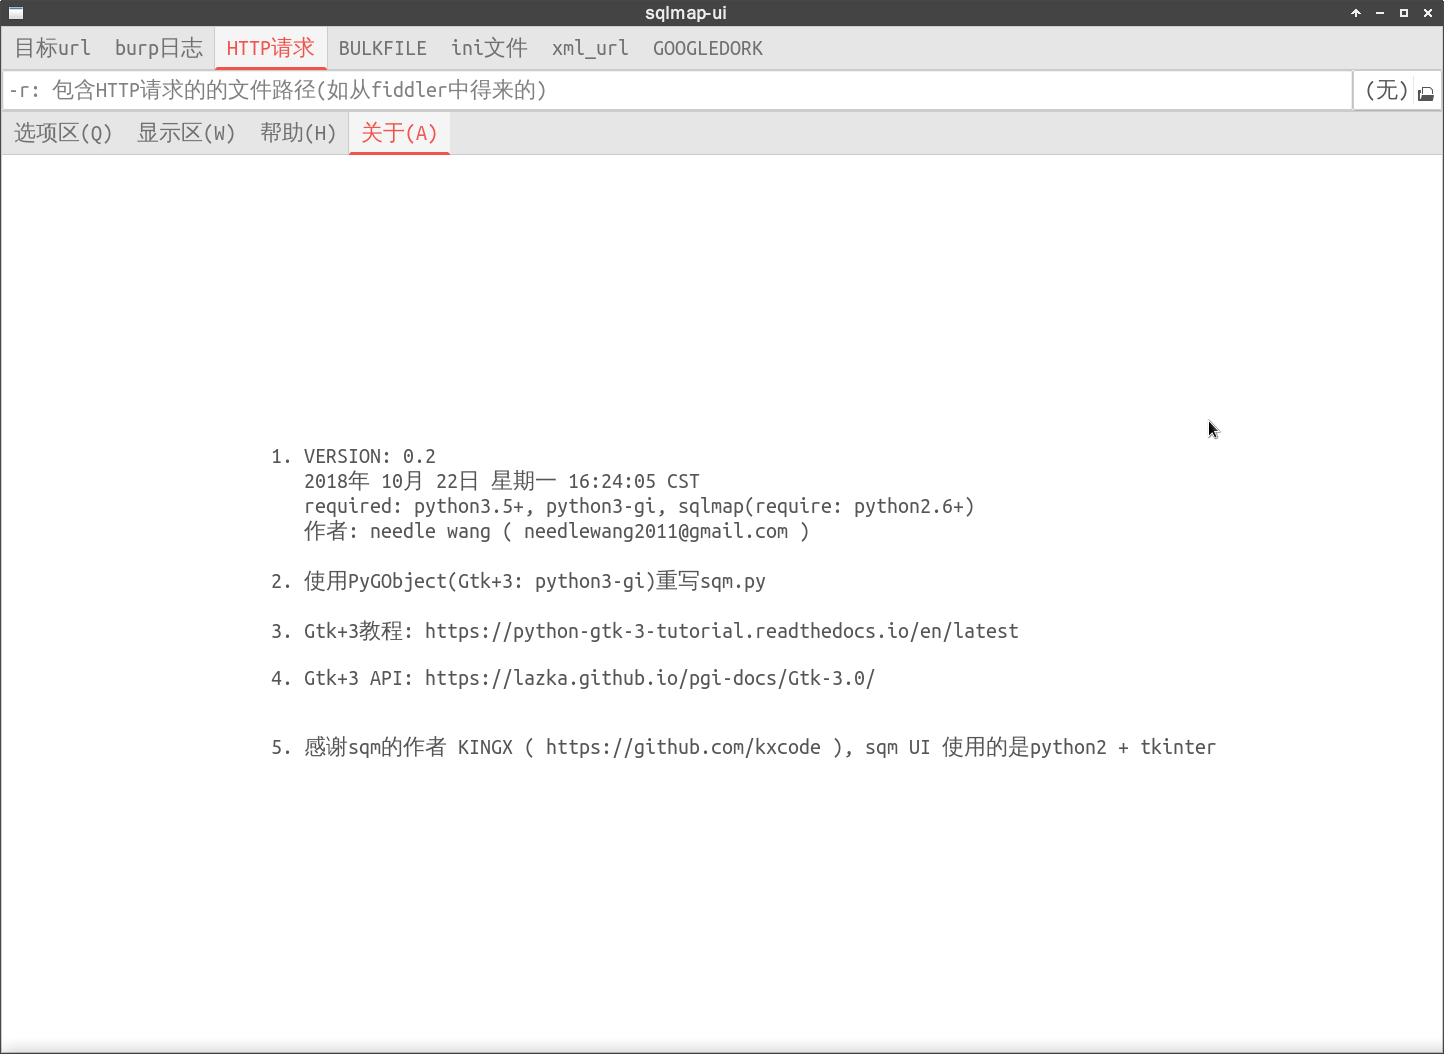
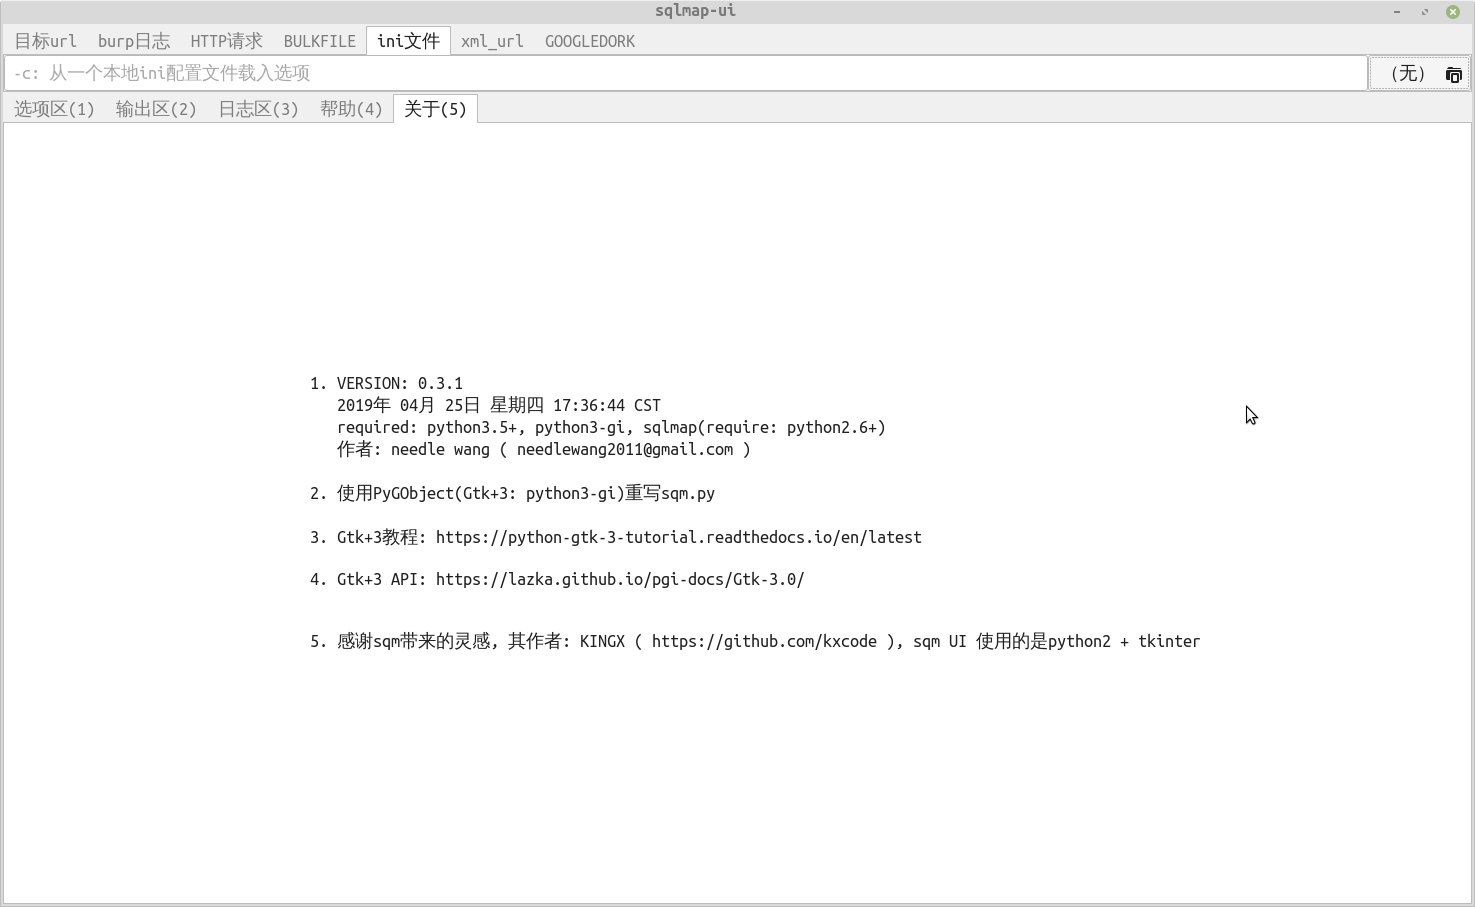
添加输出区, fix bugs, 优化.

Changed region(s): [[0.0, 0.0, 1.0, 1.0], [0.187, 0.4013, 0.7168, 0.6483], [0.2181, 0.6792, 0.8414, 0.7409]]

diff --git a/sqlmap_ui.py b/sqlmap_ui.py
@@ -11,7 +11,7 @@ from pathlib import Path
 from subprocess import Popen, PIPE
 from threading import Thread
 
-from gtk3_header import GLib, Gdk as d, Gtk as g
+from gtk3_header import GLib, Gdk as d, Gtk as g, Vte
 from model import Model
 from handlers import Singal_Handlers as Handlers
 from session import Session
@@ -45,14 +45,16 @@ class UI_Window(g.Window):
 
     self.main_notebook = g.Notebook()
     self._build_page1()
+    self._build_page0()
     self._build_page2()
     self._build_page3()
     self._build_page4()
 
-    self.main_notebook.append_page(self.page1, g.Label.new_with_mnemonic('选项区(_Q)'))
-    self.main_notebook.append_page(self.page2, g.Label.new_with_mnemonic('显示区(_W)'))
-    self.main_notebook.append_page(self.page3, g.Label.new_with_mnemonic('帮助(_H)'))
-    self.main_notebook.append_page(self.page4, g.Label.new_with_mnemonic('关于(_A)'))
+    self.main_notebook.append_page(self.page1, g.Label.new_with_mnemonic('选项区(_1)'))
+    self.main_notebook.append_page(self.page0, g.Label.new_with_mnemonic('输出区(_2)'))
+    self.main_notebook.append_page(self.page2, g.Label.new_with_mnemonic('日志区(_3)'))
+    self.main_notebook.append_page(self.page3, g.Label.new_with_mnemonic('帮助(_4)'))
+    self.main_notebook.append_page(self.page4, g.Label.new_with_mnemonic('关于(_5)'))
 
     _main_box.pack_start(self.main_notebook, True, True, 0)
     self.add(_main_box)
@@ -214,27 +216,27 @@ class UI_Window(g.Window):
     self._build_page1_file()
     self._build_page1_other()
 
-    _notebook.append_page(self.page1_setting, g.Label.new_with_mnemonic('测试(_1)'))
-    _notebook.append_page(self.page1_request, g.Label.new_with_mnemonic('请求(_2)'))
-    _notebook.append_page(self.page1_enumeration, g.Label.new_with_mnemonic('枚举(_3)'))
-    _notebook.append_page(self.page1_file, g.Label.new_with_mnemonic('文件(_4)'))
-    _notebook.append_page(self.page1_other, g.Label.new_with_mnemonic('其他(_5)'))
+    _notebook.append_page(self.page1_setting, g.Label.new_with_mnemonic('测试(_Q)'))
+    _notebook.append_page(self.page1_request, g.Label.new_with_mnemonic('请求(_W)'))
+    _notebook.append_page(self.page1_enumeration, g.Label.new_with_mnemonic('枚举(_E)'))
+    _notebook.append_page(self.page1_file, g.Label.new_with_mnemonic('文件(_R)'))
+    _notebook.append_page(self.page1_other, g.Label.new_with_mnemonic('其他(_T)'))
 
     self.page1.pack_start(_notebook, True, True, 0)
 
     # 构造与执行
     _exec_area = g.Box()
 
-    _build_button = g.Button.new_with_mnemonic('构造命令语句(_E)')
+    _build_button = g.Button.new_with_mnemonic('构造命令语句(_A)')
     _build_button.connect('clicked', self._handlers.build_all)
 
     # 用于改善ui的使用体验
-    _unselect_all_btn = g.Button.new_with_mnemonic('反选所有复选框(_C)')
+    _unselect_all_btn = g.Button.new_with_mnemonic('反选所有复选框(_S)')
     _unselect_all_btn.connect('clicked', self.unselect_all_ckbtn)
-    _clear_all_entry = g.Button.new_with_mnemonic('清空所有输入框(_I)')
+    _clear_all_entry = g.Button.new_with_mnemonic('清空所有输入框(_D)')
     _clear_all_entry.connect('clicked', self.clear_all_entry)
 
-    _run_button = g.Button.new_with_mnemonic('开始(_R)')
+    _run_button = g.Button.new_with_mnemonic('开始(_F)')
     _run_button.connect('clicked', self._handlers.run_cmdline)
 
     _exec_area.pack_start(_build_button, False, True, 0)
@@ -1007,8 +1009,9 @@ class UI_Window(g.Window):
 
     _row1 = g.Box()
 
-    _row1.pack_start(m._brute_force_area_common_tables_ckbtn, True, True, 10)
-    _row1.pack_start(m._brute_force_area_common_columns_ckbtn, True, True, 10)
+    _row1.pack_start(g.Label.new('检查是否存在:'), False, True, 10)
+    _row1.pack_start(m._brute_force_area_common_tables_ckbtn, False, True, 0)
+    _row1.pack_start(m._brute_force_area_common_columns_ckbtn, False, True, 10)
 
     _brute_force_area_opts.pack_start(_row1, False, True, 5)
     self._brute_force_area.add(_brute_force_area_opts)
@@ -1326,6 +1329,51 @@ class UI_Window(g.Window):
     _file_read_area_opts.pack_start(_row1, False, True, 5)
     self._file_read_area.add(_file_read_area_opts)
 
+  def _build_page0(self):
+    '''
+    用subprocess不可实现与sqlap的交互!
+    不管是多线程, 同步还是异步, 都不行, 只能使用pty
+    '''
+    self.page0 = g.Box(orientation=VERTICAL, spacing=6)
+    self.page0.set_border_width(10)
+
+    _row1 = g.Box(spacing = 6)
+    m._page0_cmdline_str_label.set_alignment(0, 0.5)    # 怎么没有垂直居中?
+    m._page0_respwan_btn.connect('clicked', self._handlers.respawn_terminal)
+
+    _row1.pack_start(m._page0_cmdline_str_label, True, True, 0)
+    _row1.pack_start(m._page0_respwan_btn, False, True, 0)
+
+    _row2 = g.Frame()
+    # 等价于_pty = m._page0_terminal.pty_new_sync(Vte.PtyFlags.DEFAULT)
+    _pty = Vte.Pty.new_sync(Vte.PtyFlags.DEFAULT)
+    m._page0_terminal.set_pty(_pty)
+
+    # https://stackoverflow.com/questions/55105447/virtual-python-shell-with-vte-pty-spawn-async
+    # https://gtk-d.dpldocs.info/vte.Pty.Pty.spawnAsync.html
+    # API手册上的该方法签名有问题, 与实际的对不上
+    # 最后一个参数为回调函数, 是必填项
+    _pty.spawn_async(str(Path.home()),
+                     [self._handlers.shell],
+                     None,
+                     GLib.SpawnFlags.DO_NOT_REAP_CHILD,
+                     None,
+                     None,
+                     -1,
+                     None,
+                     lambda pty, task: None)
+
+    _scrolled = g.ScrolledWindow()
+    _scrolled.set_policy(g.PolicyType.NEVER, g.PolicyType.ALWAYS)
+    _scrolled.add(m._page0_terminal)
+    _row2.add(_scrolled)
+
+    self.page0.pack_start(_row1, False, True, 5)
+    self.page0.pack_end(_row2, True, True, 0)
+
+  def ready(self, pty, task):
+    print('pty ', pty)
+
   def _build_page2(self):
     self.page2 = g.Box(orientation=VERTICAL, spacing=6)
     self.page2.set_border_width(10)
@@ -1373,7 +1421,7 @@ class UI_Window(g.Window):
 
     self._manual_view_textbuffer = _manual_view.get_buffer()
 
-    # 启动线程, 填充帮助标签, 加快启动速度
+    # 使用线程 填充 帮助标签, 加快启动速度
     t = Thread(target = self._set_manual_view)
     t.daemon = True
     t.start()
@@ -1412,15 +1460,14 @@ class UI_Window(g.Window):
     self.page4.set_border_width(10)
 
     _about_str = '''
-    update at 2019-04-20 22:03:02
-    1. VERSION: 0.3
-       2018年 11月 10日 星期六 16:17:44 CST
+    1. VERSION: 0.3.1
+       2019年 04月 25日 星期四 17:36:44 CST
        required: python3.5+, python3-gi, sqlmap(require: python2.6+)
        作者: needle wang ( needlewang2011@gmail.com )\n
     2. 使用PyGObject(Gtk+3: python3-gi)重写sqm.py\n
     3. Gtk+3教程: https://python-gtk-3-tutorial.readthedocs.io/en/latest\n
     4. Gtk+3 API: https://lazka.github.io/pgi-docs/Gtk-3.0/\n\n
-    5. 感谢sqm的作者 KINGX ( https://github.com/kxcode ), sqm UI 使用的是python2 + tkinter
+    5. 感谢sqm带来的灵感, 其作者: KINGX ( https://github.com/kxcode ), sqm UI 使用的是python2 + tkinter
     '''
     self.page4.pack_start(g.Label.new(_about_str), True, False, 0)
 

diff --git a/handlers.py b/handlers.py
@@ -4,13 +4,13 @@
 # 2018年 08月 29日 星期三 15:34:10 CST
 
 import time
-
-from os import name as OS_NAME
+from os import environ, name as OS_NAME
 # python3.5+
 from pathlib import Path
 from subprocess import Popen
 from urllib.parse import urlparse
 
+from gtk3_header import GLib, Vte
 # from basis_and_too.logging_needle import get_console_logger
 # logger = get_console_logger()
 
@@ -27,6 +27,7 @@ class Singal_Handlers(object):
     '''
     self.w = w
     self.m = m
+    self.shell = environ["SHELL"]
 
   def build_all(self, button):
     _target = self._get_target()
@@ -39,13 +40,48 @@ class Singal_Handlers(object):
 
     _final_line = _target + ''.join(_opts_list)
 
-    if _final_line:
-      self.m._cmd_entry.set_text(_final_line)
+    if _final_line is not None:
+      self.m._cmd_entry.set_text(_final_line.strip())
 
   def run_cmdline(self, button):
+    '''
+    only for posix, won't code it for win now.
+    '''
+    _sqlmap_opts = self.m._cmd_entry.get_text().strip()
+    if IS_POSIX:
+      self.w.main_notebook.next_page()
+      _cmdline_str = ''.join(('sqlmap ', _sqlmap_opts, '\n'))
+      # print(_cmdline_str)
+      if _cmdline_str:
+        self.m._page0_cmdline_str_label.set_text("running: " + _cmdline_str)
+        self.m._page0_terminal.feed_child(_cmdline_str, len(_cmdline_str))
+        self.w.set_focus(self.m._page0_terminal)
+
+  def respawn_terminal(self, button):
+    '''
+    不管pty是不是还活着, 都重新生成一个
+    没有close方法, 无法删掉旧pty, 用top -Hp pid显示, 好像会残留线程
+    '''
+    _pty = Vte.Pty.new_sync(Vte.PtyFlags.DEFAULT)
+    self.m._page0_terminal.set_pty(_pty)
+
+    _pty.spawn_async(str(Path.home()),
+                     [self.shell],
+                     None,
+                     GLib.SpawnFlags.DO_NOT_REAP_CHILD,
+                     None,
+                     None,
+                     -1,
+                     None,
+                     lambda pty, task: None)
+    self.w.set_focus(self.m._page0_terminal)
+
+  def run_cmdline_old(self, button):
+    '''
+     -  -  -  - 废弃 -  -  -  -
+    '''
     _sqlmap_opts = self.m._cmd_entry.get_text().strip()
 
-    # TODO, 还是加个输入框, 指定sqlmap的路径吧
     if _sqlmap_opts:
       if IS_POSIX:
         _cmdline_str = ''.join(('/usr/bin/env xterm -hold -e sqlmap ', _sqlmap_opts))
@@ -132,6 +168,7 @@ class Singal_Handlers(object):
 
   def read_dumped_file(self, button):
     self.w.main_notebook.next_page()
+    self.w.main_notebook.next_page()
 
     _base_dir = self._get_url_dir()
     _load_file = self.m._file_read_area_file_read_entry.get_text()
@@ -147,22 +184,20 @@ class Singal_Handlers(object):
 
   def _get_target(self):
     m = self.m
-    current_page_num = self.w._target_notbook.get_current_page()
+    _current_pagenum = self.w._target_notbook.get_current_page()
+    _target_list = [("-u ", m._url_combobox.get_child().get_text),
+                    ("-l ", m._burp_logfile.get_text),
+                    ("-r ", m._request_file.get_text),
+                    ("-m ", m._bulkfile.get_text),
+                    ("-c ", m._configfile.get_text),
+                    ("-x ", m._sitemap_url.get_text),
+                    ("-g ", m._google_dork.get_text)]
 
-    if current_page_num is 0:
-      return "-u " + QUOTE % m._url_combobox.get_child().get_text().strip()
-    elif current_page_num is 1:
-      return "-l " + QUOTE % m._burp_logfile.get_text().strip()
-    elif current_page_num is 2:
-      return "-r " + QUOTE % m._request_file.get_text().strip()
-    elif current_page_num is 3:
-      return "-m " + QUOTE % m._bulkfile.get_text().strip()
-    elif current_page_num is 4:
-      return "-c " + QUOTE % m._configfile.get_text().strip()
-    elif current_page_num is 5:
-      return "-x " + QUOTE % m._sitemap_url.get_text().strip()
-    elif current_page_num is 6:
-      return "-g " + QUOTE % m._google_dork.get_text().strip()
+    _target_tmp = _target_list[_current_pagenum][1]().strip()
+    if _target_tmp:
+      return _target_list[_current_pagenum][0] + QUOTE % _target_tmp
+    else:
+      return ''
 
   def _collect_opts(self):
     m = self.m

diff --git a/tooltips.py b/tooltips.py
@@ -20,7 +20,7 @@ class Widget_Mesg(object):
     m: model.Model
     '''
     # 0.target区
-    self._set_placeholder('必填项, 从 目标url/burp日志/HTTP请求... 任选一项',
+    self._set_placeholder('通常是从 目标url/burp日志/HTTP请求... 中任选一项',
                           m._url_combobox.get_child())
     self._set_placeholder('-l: Burp或WebScarab代理的日志文件路径(用来解析目标)',
                           m._burp_logfile)
@@ -283,7 +283,7 @@ class Widget_Mesg(object):
                       m._request_area_chunked_ckbtn)
     self._set_tooltip('--hpp',
                       m._request_area_hpp_ckbtn)
-    self._set_tooltip('隔几秒发送一个HTTP请求',
+    self._set_tooltip('--delay=隔几秒发送一个HTTP请求',
                       m._request_area_delay_ckbtn,
                       m._request_area_delay_entry)
     self._set_tooltip('--timeout=',
@@ -308,7 +308,7 @@ class Widget_Mesg(object):
     self._set_tooltip('--safe-req=',
                       m._request_area_safe_req_ckbtn,
                       m._request_area_safe_req_entry)
-    self._set_tooltip('--safe-freq=',
+    self._set_tooltip('--safe-freq=SAFE.. Test requests between two visits to a given safe URL',
                       m._request_area_safe_freq_ckbtn,
                       m._request_area_safe_freq_entry)
     self._set_tooltip('--ignore-proxy',
@@ -576,7 +576,7 @@ class Widget_Mesg(object):
     self._set_tooltip('-z MNEMONICS Use short mnemonics (e.g. "flu,bat,ban,tec=EU")',
                       m._page1_misc_z_ckbtn,
                       m._page1_misc_z_entry)
-    # 二、显示区(page2)
+    # 二、日志区(page2)
     self._set_tooltip('不会修改文件',
                       m._page2_clear_btn)
 

diff --git a/model.py b/model.py
@@ -2,7 +2,7 @@
 #
 # 2018年 11月 10日 星期六 07:16:38 CST
 
-from gtk3_header import Gtk as g
+from gtk3_header import Gtk as g, Vte
 from widgets import FileEntry, NumberEntry
 
 HORIZONTAL = g.Orientation.HORIZONTAL
@@ -325,7 +325,11 @@ class Model(object):
     self._page1_misc_gpage_spinbtn = g.SpinButton.new_with_range(1, 100, 1)
     self._page1_misc_z_ckbtn = cb('使用短的助记符')
     self._page1_misc_z_entry = et()
-  # 显示区(W)
+  # 输出区(O)
+    self._page0_cmdline_str_label = g.Label.new('')
+    self._page0_respwan_btn = g.Button.new_with_label('重开终端')
+    self._page0_terminal = Vte.Terminal.new()
+  # 日志区(F)
     self._page2_clear_btn = g.Button.new_with_mnemonic('清空(_C)')
 
 

diff --git a/gtk3_header.py b/gtk3_header.py
@@ -6,6 +6,7 @@
 import gi
 gi.require_version('Gtk', '3.0')
 gi.require_version('Gdk', '3.0')
+gi.require_version('Vte', '2.91')
 
-from gi.repository import Gdk, Gio, GLib, Gtk
+from gi.repository import Gdk, Gio, GLib, Gtk, Vte
 

diff --git a/README.md b/README.md
@@ -25,14 +25,16 @@ sqlmap ui, using PyGObject(gtk+3)
 5. ~~重构~~
 6. ~~添加session功能(v0.2.2)~~
 7. ~~重构成MVC模式(结构重构改动很大, v0.3)~~
-8. ~~将管道流集成到UI里(难度过大, 放弃)~~
+8. ~~将管道流集成到UI里(无法实现, 改用pty实现成功)~~
 
 #### ABOUT
-1. V0.3  
+1. V0.3.1  
+   2019年 04月 25日 星期四 17:36:44 CST  
+   V0.3  
    2018年 11月 10日 星期六 16:17:53 CST  
    作者: needle wang ( needlewang2011@gmail.com )
 2. 使用PyGObject(Gtk+3: python3-gi)重写sqm.py
-3. 感谢[sqm](https://github.com/kxcode/gui-for-sqlmap)的作者: [KINGX](https://github.com/kxcode) (sqm UI 使用的是python2 + tkinter)
+3. 感谢[sqm](https://github.com/kxcode/gui-for-sqlmap)带来的灵感, 其作者: [KINGX](https://github.com/kxcode) (sqm UI 使用的是python2 + tkinter)
 
 #### REFERENCE
 1. Gtk+3教程: https://python-gtk-3-tutorial.readthedocs.io/en/latest/
